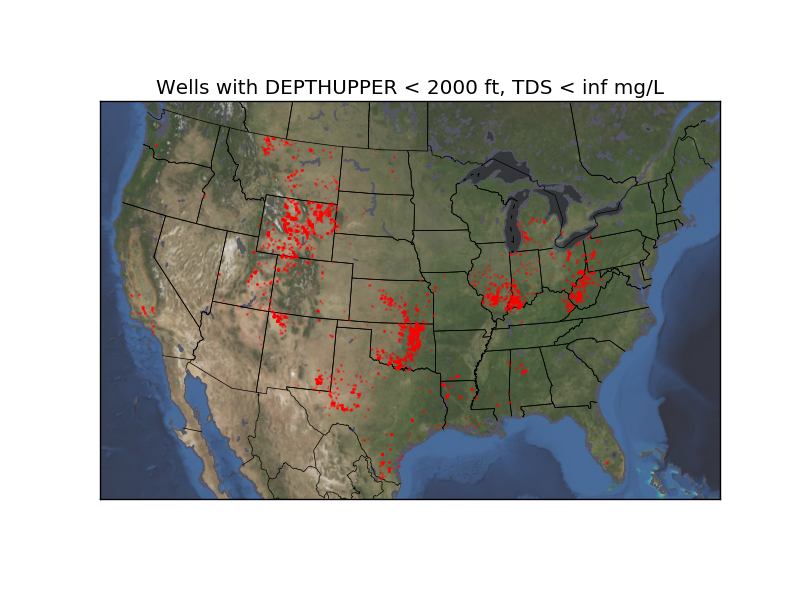
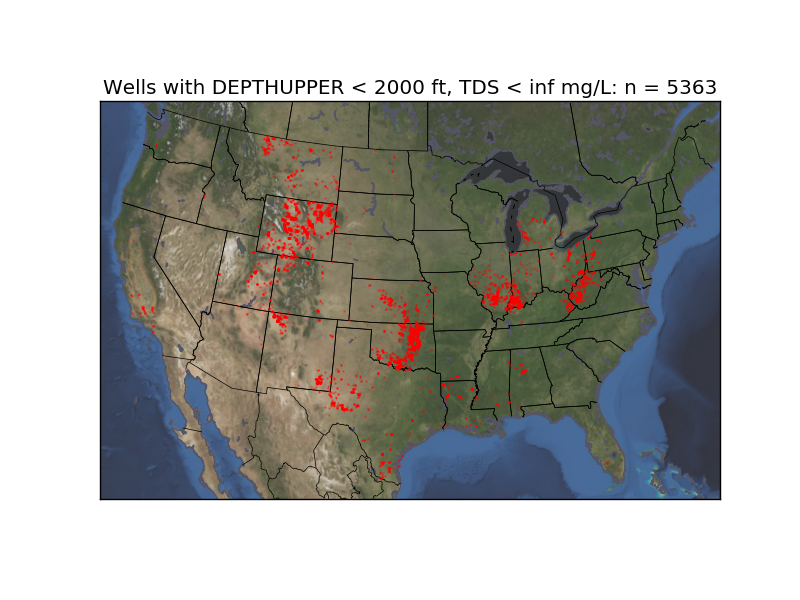
Add number of samples to maps

Changed region(s): [[0.125, 0.12, 0.9062, 0.18]]

diff --git a/analyze.py b/analyze.py
@@ -1,7 +1,7 @@
 import pandas as pd
 import numpy as np
 
-import plot_map
+import maps
 
 df = pd.read_csv('data/USGS_Produced_Waters_v2.2n.csv', index_col='IDUSGS')
 cols = ['LATITUDE', 'LONGITUDE', 'DEPTHUPPER', 'TDS']
@@ -11,8 +11,7 @@ print(df[cols].describe())
 
 for depth in (1000, 2000, float('inf')):
     for tds in (1000, 3000, 10000, float('inf')):
-        filtered = df[(df.DEPTHUPPER < depth) & (df.TDS < tds)]
+        filtered = df[(df.DEPTHUPPER < depth) & (df.TDS < tds)][['LATITUDE', 'LONGITUDE']].dropna()
         print('DEPTHUPPER < {} ft, TDS < {} mg/L: {}'.format(depth, tds, len(filtered)))
-        plot_map.make_map(filtered[['LATITUDE', 'LONGITUDE']].dropna(), 
-                          MAP_OUTPUT.format(depth, tds), 
-                          'Wells with DEPTHUPPER < {} ft, TDS < {} mg/L'.format(depth, tds))
+        maps.make_map(filtered, MAP_OUTPUT.format(depth, tds),
+                      'Wells with DEPTHUPPER < {} ft, TDS < {} mg/L: n = {}'.format(depth, tds, len(filtered)))

diff --git a/maps.py b/maps.py
@@ -14,3 +14,4 @@ def make_map(df, filename, title):
     plt.scatter(x, y, s=0.5, color='r', alpha=0.4, zorder=10)
     plt.title(title)
     plt.savefig(filename)
+    plt.close()
